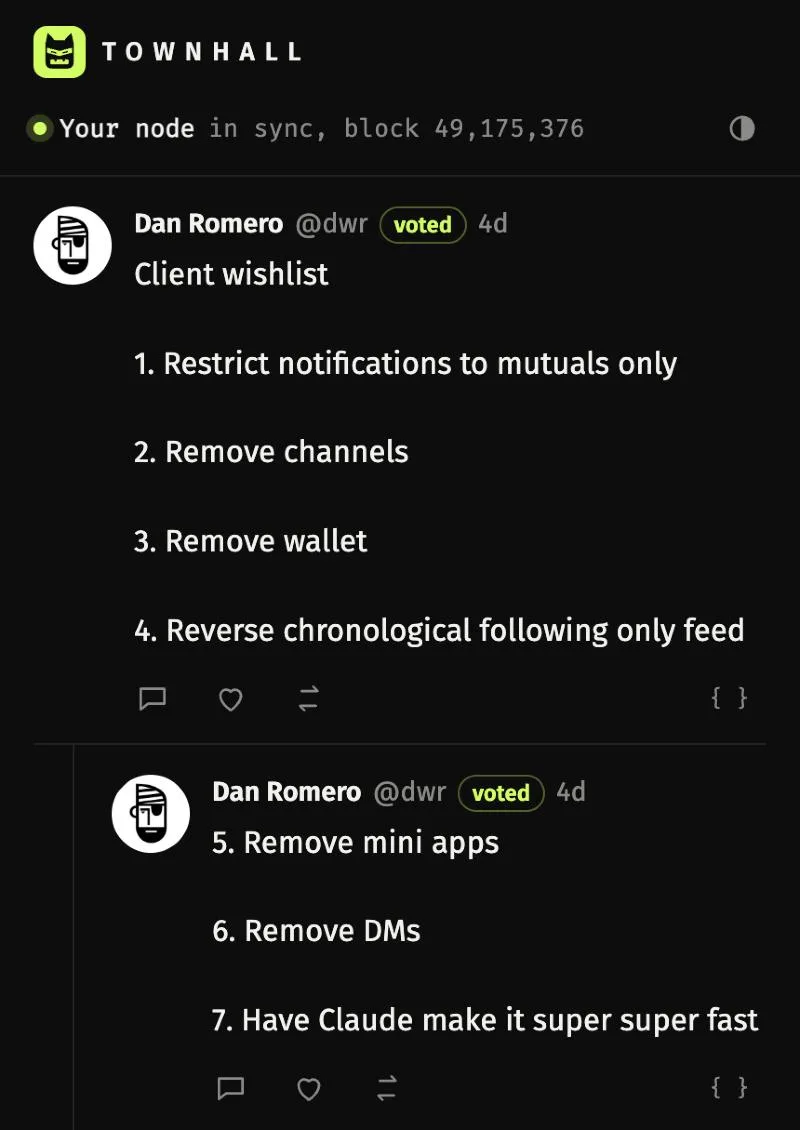
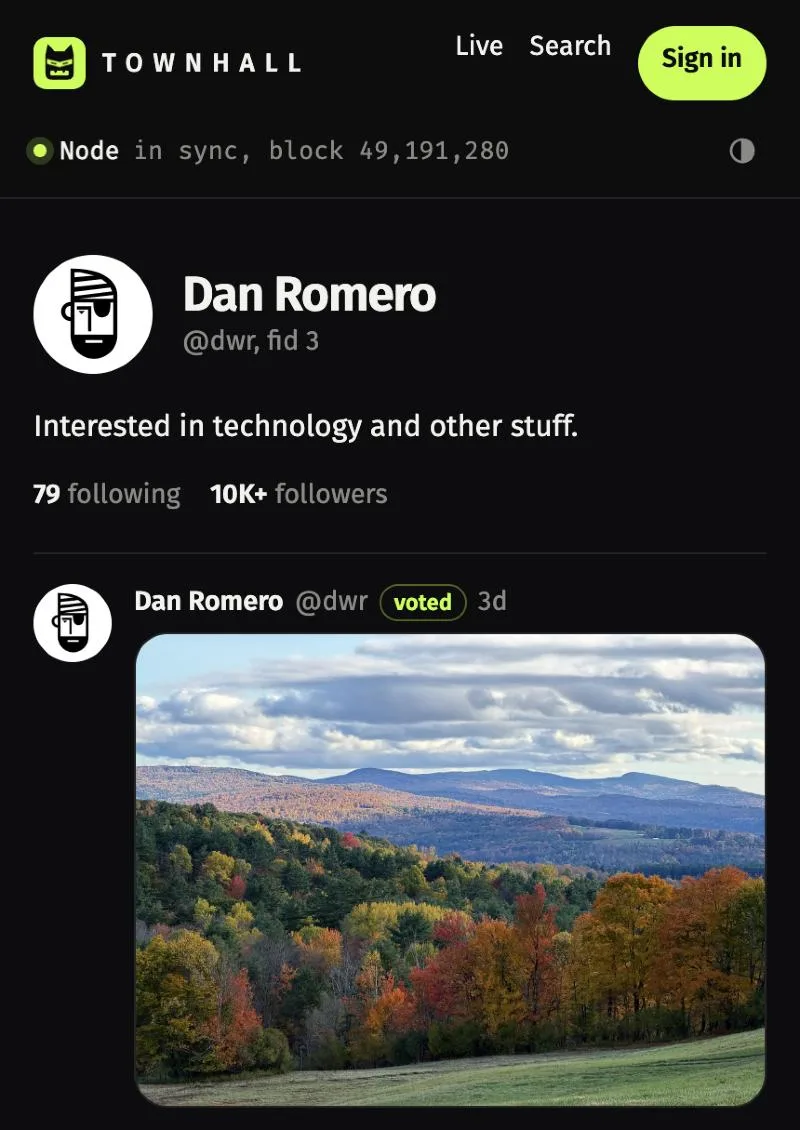
Guide: try-it box (read-only feed by username) and a live demo-node card up top; drop the wishlist card; #/read/<username> route; /v1/info readable cross-origin

diff --git a/site/zh/index.html b/site/zh/index.html
@@ -115,6 +115,22 @@ td code,p code,li code,dd code{overflow-wrap:anywhere}td,th{overflow-wrap:anywhe
 .ostabs button.on{color:var(--fg);border-color:color-mix(in srgb,var(--fg) 35%,transparent)}
 .os pre[data-os]{display:none}.os[data-on=unix] pre[data-os=unix],.os[data-on=win] pre[data-os=win]{display:block}
 .faq{margin:12px 0 0}.faq dt{font-weight:600;margin:20px 0 6px;font-size:17px}.faq dd{margin:0;color:var(--fg);max-width:66ch}
+.hero h1 .hl{color:var(--accent)}
+.try{margin:30px 0 0;max-width:620px;border:1.5px solid color-mix(in srgb,var(--accent) 70%,transparent);border-radius:16px;padding:14px;background:var(--card);box-shadow:0 0 0 6px color-mix(in srgb,var(--accent) 7%,transparent)}
+.try input{width:100%;font:inherit;font-size:18px;padding:14px 12px;border:0;background:transparent;color:var(--fg);outline:none}
+.try button{width:100%;font:inherit;font-size:17px;font-weight:600;padding:15px;border:0;border-radius:10px;background:var(--accent);color:var(--on-accent);cursor:pointer;margin-top:6px}
+.try-note{font-size:14px;color:var(--muted);margin:12px 0 0;max-width:none}
+.try-note a{color:var(--fg)}
+.nodecard{margin:26px 0 0;max-width:620px;border:1px solid var(--line);border-radius:16px;background:var(--card);overflow:hidden}
+.nodecard .hd{display:flex;align-items:center;gap:10px;padding:14px 18px;border-bottom:1px solid var(--line);font-weight:500}
+.nodecard .hd i{width:9px;height:9px;border-radius:50%;background:var(--muted);box-shadow:0 0 0 4px color-mix(in srgb,var(--muted) 20%,transparent)}
+.nodecard.ok .hd i{background:var(--accent);box-shadow:0 0 0 4px color-mix(in srgb,var(--accent) 22%,transparent)}
+.nodecard .hd span{margin-left:auto;font-size:14px;color:var(--muted);font-weight:400}
+.nodecard .grid{display:grid;grid-template-columns:repeat(3,1fr)}
+.nodecard .grid div{padding:14px 18px;border-right:1px solid var(--line)}.nodecard .grid div:last-child{border-right:0}
+.nodecard b{display:block;font-family:"Fira Mono",ui-monospace,monospace;font-size:19px;font-weight:400}
+.nodecard small{font-size:13px;color:var(--muted)}
+@media (max-width:600px){.nodecard .grid div{padding:12px 12px}.nodecard b{font-size:14.5px}.nodecard small{font-size:12px}}
 .qsh{margin:0 0 14px}
 .proof{max-width:860px;margin:0 auto;padding:8px 24px 24px}
 .proof h2{margin:0 0 6px}
@@ -144,10 +160,12 @@ td code,p code,li code,dd code{overflow-wrap:anywhere}td,th{overflow-wrap:anywhe
 </nav>
 
 <header class="hero">
-  <h1>没有任何应用能封禁你。</h1>
+  <h1>没有任何应用能<span class="hl">封禁</span>你。</h1>
   <p class="lead2">你自己的 Farcaster 客户端和 Snapchain 节点，三条命令搞定。</p>
   <p class="sub">一切都运行在你自己控制的服务器上，不依赖任何人的 API 密钥。今晚敲十分钟命令，明天下午就同步完成。</p>
-  <div class="btns"><a class="p" href="#quickstart">开始</a><a class="s" href="https://app.townhallfc.xyz">查看在线演示</a></div>
+  <form class="try" id="try"><input name="u" placeholder="你的 Farcaster 用户名" autocapitalize="off" autocorrect="off" spellcheck="false" aria-label="你的 Farcaster 用户名"><button type="submit">打开我的信息流</button></form>
+  <p class="try-note">只读，直接来自我们的节点，无需签名。<a href="#quickstart">或者用三条命令运行你自己的 ↓</a></p>
+  <div class="nodecard" id="nodecard" aria-live="polite"><div class="hd"><i></i>演示节点<span data-k="st">连接中…</span></div><div class="grid"><div><b data-k="h">—</b><small>区块</small></div><div><b data-k="m">—</b><small>已存储消息</small></div><div><b data-k="a">—</b><small>账号</small></div></div></div>
   <p class="small zh-note">本页为机器辅助翻译，英文版为准。欢迎在 <a href="https://github.com/townhall-fc/townhall">GitHub</a> 提交修正。</p>
 </header>
 
@@ -155,21 +173,9 @@ td code,p code,li code,dd code{overflow-wrap:anywhere}td,th{overflow-wrap:anywhe
   <h2>真实的 cast，读自演示节点</h2>
   <p class="small">演示客户端在手机上的截图，2026 年 10 月。每条 cast、回复和头像都来自节点，而不是 API。点击可打开实时页面。</p>
   <div class="shots">
-    <figure><a href="https://app.townhallfc.xyz/#/c/3/0x597007de6219f87fdf71ad5769db542c8f2d1dde"><img src="../img/cast-dwr.webp" alt="Dan Romero 的客户端愿望清单及他的后续回复" width="800" height="1130" loading="lazy"></a><figcaption>@dwr 的客户端愿望清单，以及他自己的补充。</figcaption></figure>
+    <figure><a href="https://app.townhallfc.xyz/#/u/dwr"><img src="../img/cast-dwr.webp" alt="townhall 中 Dan Romero 的主页" width="800" height="1130" loading="lazy"></a><figcaption>@dwr 的主页：帖子，以及从节点读取的关注数。</figcaption></figure>
     <figure><a href="https://app.townhallfc.xyz/#/c/5650/0x9252885364ac7db01ac427e97dd246b7af619949"><img src="../img/cast-vitalik.webp" alt="Vitalik Buterin 带两张表格图片和回复的 cast" width="800" height="1050" loading="lazy"></a><figcaption>@vitalik.eth：图片与回复。</figcaption></figure>
     <figure><a href="https://app.townhallfc.xyz/#/c/129/0xa9c0dfd6c4b17ea8ac6f0a71aaa644fb41e0ef5c"><img src="../img/cast-phil.webp" alt="Phil 宣布关闭一个应用，以及回复" width="800" height="960" loading="lazy"></a><figcaption>@phil 关闭了一个应用。应用来来去去，账号和 cast 留在网络上。</figcaption></figure>
-  </div>
-  <div class="wish">
-    <h3>Dan Romero 的客户端愿望清单，10 月 16 日</h3>
-    <p class="small">清单中 townhall 已经做到的：</p>
-    <ol>
-      <li><div>只显示互关者的通知 <span>· 回复页默认只显示互关者，可切换为所有人</span></div></li>
-      <li><div>没有频道</div></li>
-      <li><div>没有钱包</div></li>
-      <li><div>只含关注者、按时间倒序的信息流 <span>· 即首页信息流</span></div></li>
-      <li><div>没有小程序</div></li>
-      <li><div>没有私信</div></li>
-    </ol>
   </div>
 </section>
 
@@ -470,6 +476,19 @@ document.querySelectorAll('.os').forEach(function(o){
   function set(v){o.dataset.on=v;o.querySelectorAll('.ostabs button').forEach(function(b){b.classList.toggle('on',b.dataset.os===v);b.setAttribute('aria-selected',b.dataset.os===v)})}
   o.querySelectorAll('.ostabs button').forEach(function(b){b.onclick=function(){document.querySelectorAll('.os').forEach(function(x){x.__set&&x.__set(b.dataset.os)})}});
   o.__set=set;set(win?'win':'unix')})})();
+</script>
+<script>
+(function(){var APP='https://app.townhallfc.xyz';
+document.getElementById('try').onsubmit=function(e){e.preventDefault();var u=this.u.value.trim().replace(/^@/,'');location.href=APP+'/#/read/'+encodeURIComponent(u||'dwr')};
+var c=document.getElementById('nodecard'),f=function(n){return Number(n).toLocaleString('en-US')};
+function set(k,v){c.querySelector('[data-k='+k+']').textContent=v}
+function tick(){fetch(APP+'/v1/info',{cache:'no-store'}).then(function(r){return r.json()}).then(function(i){
+  var sh=(i.shardInfos||[]).filter(function(s){return s.shardId!==0});
+  var behind=Math.max.apply(null,sh.map(function(s){return Number(s.blockDelay||0)}).concat([0]));
+  set('h',f(Math.max.apply(null,sh.map(function(s){return Number(s.maxHeight||0)}).concat([0]))));
+  set('m',f(i.dbStats.numMessages));set('a',f(i.dbStats.numFidRegistrations));
+  set('st',behind<10?'已同步':'落后 '+behind+' 个区块');c.classList.toggle('ok',behind<10)}).catch(function(){})}
+tick();setInterval(function(){if(!document.hidden)tick()},4000)})();
 </script>
 </body>
 </html>

diff --git a/site/index.html b/site/index.html
@@ -115,6 +115,22 @@ td code,p code,li code,dd code{overflow-wrap:anywhere}td,th{overflow-wrap:anywhe
 .ostabs button.on{color:var(--fg);border-color:color-mix(in srgb,var(--fg) 35%,transparent)}
 .os pre[data-os]{display:none}.os[data-on=unix] pre[data-os=unix],.os[data-on=win] pre[data-os=win]{display:block}
 .faq{margin:12px 0 0}.faq dt{font-weight:600;margin:20px 0 6px;font-size:17px}.faq dd{margin:0;color:var(--fg);max-width:66ch}
+.hero h1 .hl{color:var(--accent)}
+.try{margin:30px 0 0;max-width:620px;border:1.5px solid color-mix(in srgb,var(--accent) 70%,transparent);border-radius:16px;padding:14px;background:var(--card);box-shadow:0 0 0 6px color-mix(in srgb,var(--accent) 7%,transparent)}
+.try input{width:100%;font:inherit;font-size:18px;padding:14px 12px;border:0;background:transparent;color:var(--fg);outline:none}
+.try button{width:100%;font:inherit;font-size:17px;font-weight:600;padding:15px;border:0;border-radius:10px;background:var(--accent);color:var(--on-accent);cursor:pointer;margin-top:6px}
+.try-note{font-size:14px;color:var(--muted);margin:12px 0 0;max-width:none}
+.try-note a{color:var(--fg)}
+.nodecard{margin:26px 0 0;max-width:620px;border:1px solid var(--line);border-radius:16px;background:var(--card);overflow:hidden}
+.nodecard .hd{display:flex;align-items:center;gap:10px;padding:14px 18px;border-bottom:1px solid var(--line);font-weight:500}
+.nodecard .hd i{width:9px;height:9px;border-radius:50%;background:var(--muted);box-shadow:0 0 0 4px color-mix(in srgb,var(--muted) 20%,transparent)}
+.nodecard.ok .hd i{background:var(--accent);box-shadow:0 0 0 4px color-mix(in srgb,var(--accent) 22%,transparent)}
+.nodecard .hd span{margin-left:auto;font-size:14px;color:var(--muted);font-weight:400}
+.nodecard .grid{display:grid;grid-template-columns:repeat(3,1fr)}
+.nodecard .grid div{padding:14px 18px;border-right:1px solid var(--line)}.nodecard .grid div:last-child{border-right:0}
+.nodecard b{display:block;font-family:"Fira Mono",ui-monospace,monospace;font-size:19px;font-weight:400}
+.nodecard small{font-size:13px;color:var(--muted)}
+@media (max-width:600px){.nodecard .grid div{padding:12px 12px}.nodecard b{font-size:14.5px}.nodecard small{font-size:12px}}
 .qsh{margin:0 0 14px}
 .proof{max-width:860px;margin:0 auto;padding:8px 24px 24px}
 .proof h2{margin:0 0 6px}
@@ -144,31 +160,21 @@ td code,p code,li code,dd code{overflow-wrap:anywhere}td,th{overflow-wrap:anywhe
 </nav>
 
 <header class="hero">
-  <h1>No app can ban you.</h1>
+  <h1>No app can <span class="hl">ban</span> you.</h1>
   <p class="lead2">Your own Farcaster client and Snapchain node, in three commands.</p>
   <p class="sub">Everything runs on a server you control, with no API keys from anyone. Ten minutes of typing tonight, synced by tomorrow afternoon.</p>
-  <div class="btns"><a class="p" href="#quickstart">Start</a><a class="s" href="https://app.townhallfc.xyz">See the live demo</a></div>
+  <form class="try" id="try"><input name="u" placeholder="Your Farcaster username" autocapitalize="off" autocorrect="off" spellcheck="false" aria-label="Your Farcaster username"><button type="submit">Open my feed</button></form>
+  <p class="try-note">Read-only, straight from our node. Nothing to sign. <a href="#quickstart">Or run your own in three commands ↓</a></p>
+  <div class="nodecard" id="nodecard" aria-live="polite"><div class="hd"><i></i>Demo node<span data-k="st">connecting…</span></div><div class="grid"><div><b data-k="h">—</b><small>block</small></div><div><b data-k="m">—</b><small>messages stored</small></div><div><b data-k="a">—</b><small>accounts</small></div></div></div>
 </header>
 
 <section id="proof" class="proof">
   <h2>Real casts, read from the demo node</h2>
   <p class="small">Screenshots of the demo client on a phone, October 2026. Every cast, reply and avatar came from the node, not from an API. Tap one to open it live.</p>
   <div class="shots">
-    <figure><a href="https://app.townhallfc.xyz/#/c/3/0x597007de6219f87fdf71ad5769db542c8f2d1dde"><img src="img/cast-dwr.webp" alt="Dan Romero's client wishlist cast and his follow-up reply, in townhall" width="800" height="1130" loading="lazy"></a><figcaption>@dwr's client wishlist, with his own follow-up.</figcaption></figure>
+    <figure><a href="https://app.townhallfc.xyz/#/u/dwr"><img src="img/cast-dwr.webp" alt="Dan Romero's profile in townhall, with follower counts and casts" width="800" height="1130" loading="lazy"></a><figcaption>@dwr's profile: posts, and counts read from the node.</figcaption></figure>
     <figure><a href="https://app.townhallfc.xyz/#/c/5650/0x9252885364ac7db01ac427e97dd246b7af619949"><img src="img/cast-vitalik.webp" alt="A Vitalik Buterin cast with two image tables and replies, in townhall" width="800" height="1050" loading="lazy"></a><figcaption>@vitalik.eth: images and replies.</figcaption></figure>
     <figure><a href="https://app.townhallfc.xyz/#/c/129/0xa9c0dfd6c4b17ea8ac6f0a71aaa644fb41e0ef5c"><img src="img/cast-phil.webp" alt="Phil announcing he is shutting down an app, with replies, in townhall" width="800" height="960" loading="lazy"></a><figcaption>@phil shutting down an app. Apps come and go; accounts and casts stay on the network.</figcaption></figure>
-  </div>
-  <div class="wish">
-    <h3>Dan Romero's client wishlist, October 16</h3>
-    <p class="small">What townhall already does from his list:</p>
-    <ol>
-      <li><div>Notifications from mutuals only <span>· Replies shows mutuals by default, with a switch for everyone</span></div></li>
-      <li><div>No channels</div></li>
-      <li><div>No wallet</div></li>
-      <li><div>Reverse-chronological, following-only feed <span>· that is the home feed</span></div></li>
-      <li><div>No mini apps</div></li>
-      <li><div>No DMs</div></li>
-    </ol>
   </div>
 </section>
 
@@ -470,6 +476,19 @@ document.querySelectorAll('.os').forEach(function(o){
   function set(v){o.dataset.on=v;o.querySelectorAll('.ostabs button').forEach(function(b){b.classList.toggle('on',b.dataset.os===v);b.setAttribute('aria-selected',b.dataset.os===v)})}
   o.querySelectorAll('.ostabs button').forEach(function(b){b.onclick=function(){document.querySelectorAll('.os').forEach(function(x){x.__set&&x.__set(b.dataset.os)})}});
   o.__set=set;set(win?'win':'unix')})})();
+</script>
+<script>
+(function(){var APP='https://app.townhallfc.xyz';
+document.getElementById('try').onsubmit=function(e){e.preventDefault();var u=this.u.value.trim().replace(/^@/,'');location.href=APP+'/#/read/'+encodeURIComponent(u||'dwr')};
+var c=document.getElementById('nodecard'),f=function(n){return Number(n).toLocaleString('en-US')};
+function set(k,v){c.querySelector('[data-k='+k+']').textContent=v}
+function tick(){fetch(APP+'/v1/info',{cache:'no-store'}).then(function(r){return r.json()}).then(function(i){
+  var sh=(i.shardInfos||[]).filter(function(s){return s.shardId!==0});
+  var behind=Math.max.apply(null,sh.map(function(s){return Number(s.blockDelay||0)}).concat([0]));
+  set('h',f(Math.max.apply(null,sh.map(function(s){return Number(s.maxHeight||0)}).concat([0]))));
+  set('m',f(i.dbStats.numMessages));set('a',f(i.dbStats.numFidRegistrations));
+  set('st',behind<10?'in sync':behind+' behind');c.classList.toggle('ok',behind<10)}).catch(function(){})}
+tick();setInterval(function(){if(!document.hidden)tick()},4000)})();
 </script>
 </body>
 </html>

diff --git a/client/src/main.ts b/client/src/main.ts
@@ -652,6 +652,14 @@ async function route() {
       if (!fid) { $view.innerHTML = `<div class="center">No account named ${esc(decodeURIComponent(parts[1]))} on your node.</div>`; return; }
       return await viewProfile(fid);
     }
+    if (parts[0] === 'read' && parts[1]) { // #/read/<username>: open that account's home feed, read-only (links from the guide)
+      const name = decodeURIComponent(parts[1]).replace(/^@/, '');
+      const fid = /^\d+$/.test(name) ? Number(name) : await fidByName(name);
+      if (!fid) { $view.innerHTML = `<div class="center">No account named ${esc(name)} on this node.</div>`; return; }
+      if (!key) localStorage.setItem('readFid', String(fid));
+      history.replaceState(null, '', '#/'); renderMe();
+      return await viewFeed();
+    }
     if (parts[0] === 'search') return viewSearch(decodeURIComponent(parts[1] || ''));
     if (parts[0] === 'c' && parts[2]) return await viewThread(Number(parts[1]), parts[2]);
     if (parts[0] === 'settings') return viewSettings();

diff --git a/CHANGELOG.md b/CHANGELOG.md
@@ -2,6 +2,7 @@
 
 ## Unreleased
 
+- Guide: try it first. Type a username and open that feed read-only on the demo node (`#/read/<username>`); a live card shows the demo node's block, messages and accounts (the web server allows other sites to read `/v1/info`).
 - The gargoyle shows your node's state: awake and blinking when in sync, squinting and looking around while it catches up, asleep while it downloads the network or can't be reached.
 - Fix: leaving Live (or any page) while it was still loading could paint "Cannot set properties of null" over the next page.
 - Follower and following counts: distinct accounts, shown within a second and growing as the node pages through large accounts. Fixes a blank or inflated count when the node kept returning the last page.
